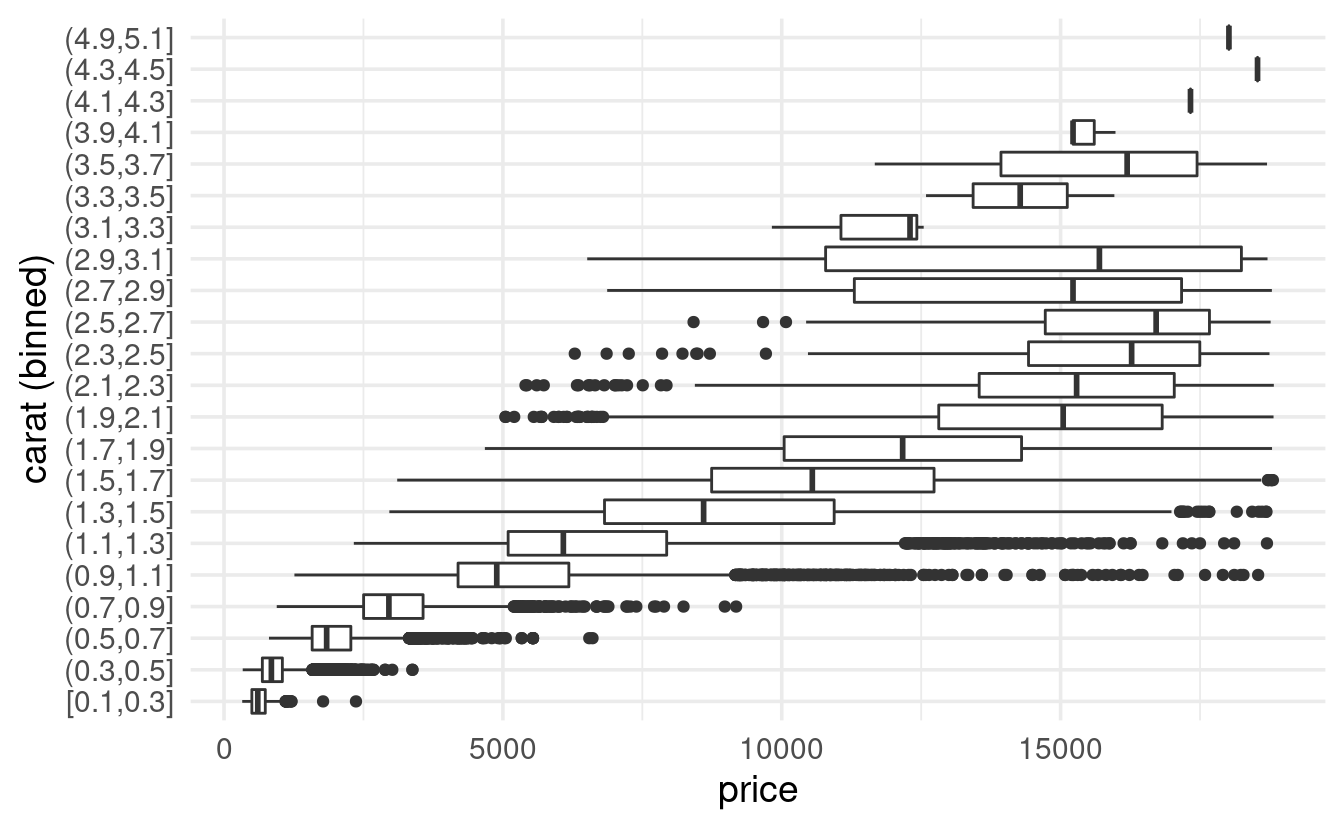
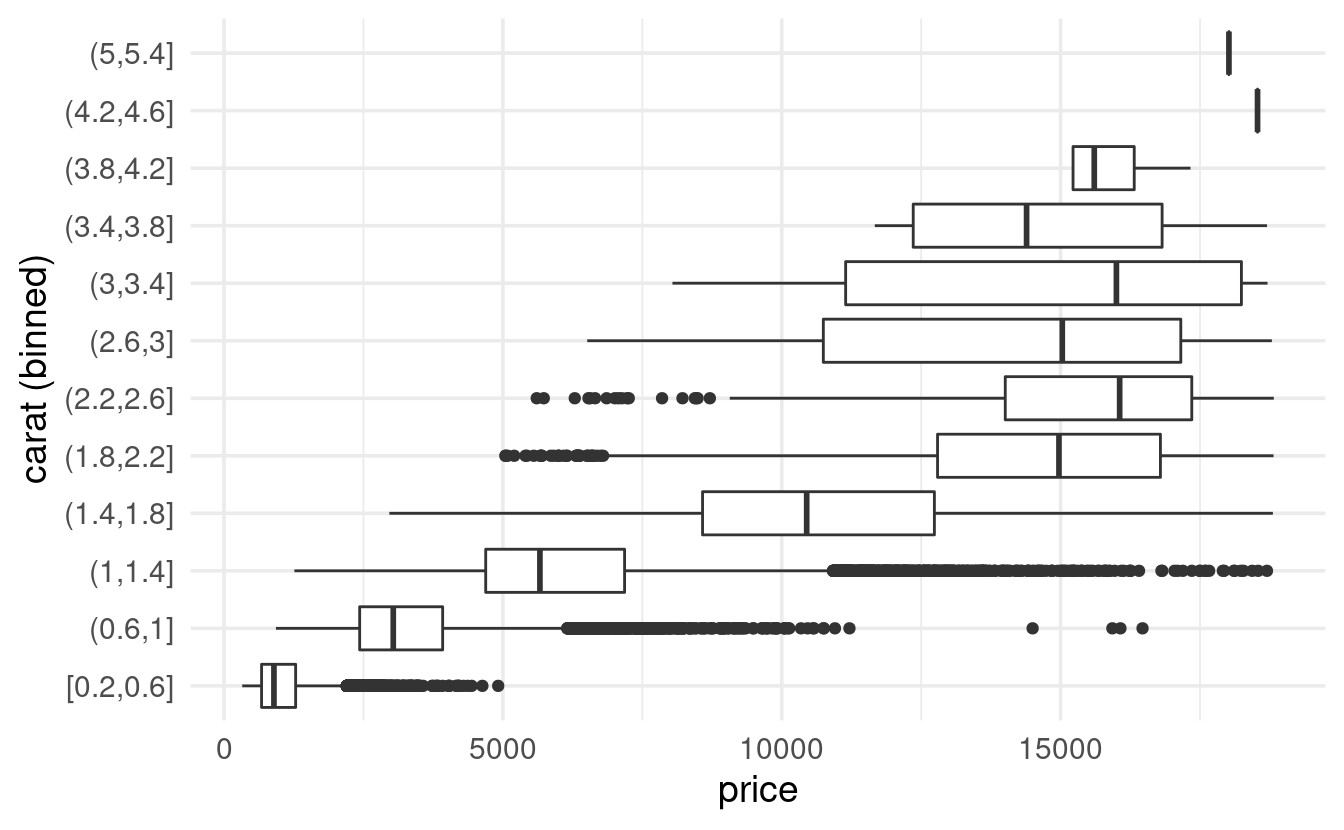
Pass 3 of CC S04E16 - now knitted

diff --git a/content/codeclub/S04E16/index.md b/content/codeclub/S04E16/index.md
@@ -8,7 +8,7 @@ tags: [codeclub, r4ds]
 date: 2022-12-01
 lastmod: 2022-12-01
 toc: true
-rmd_hash: 1bfef5e902d5507b
+rmd_hash: 4fbedcead3f846fc
 
 ---
 
@@ -18,14 +18,15 @@ rmd_hash: 1bfef5e902d5507b
 
 Like last time, we'll mostly use *tidyverse* tools to explore the `diamonds` dataset, which is also part of the *tidyverse*.
 
-We'll also have a quick look at the `flights` dataset, for which we'll need to load the *nycflights13* package:
+We'll also have one look at the `flights` dataset, for which we'll need to load the *nycflights13* package:
 
 <div class="highlight">
 
-<pre class='chroma'><code class='language-r' data-lang='r'><span><span class='c'>## You only need to install if you haven't previously done so</span></span>
+<pre class='chroma'><code class='language-r' data-lang='r'><span><span class='c'>## You only need to install packages if you haven't previously done so</span></span>
 <span><span class='c'># install.packages("nycflights13")</span></span>
 <span><span class='c'># install.packages("tidyverse")</span></span>
 <span></span>
+<span><span class='c'>## But you'll have to load packages for every R session:</span></span>
 <span><span class='kr'><a href='https://rdrr.io/r/base/library.html'>library</a></span><span class='o'>(</span><span class='nv'><a href='https://github.com/hadley/nycflights13'>nycflights13</a></span><span class='o'>)</span></span>
 <span><span class='kr'><a href='https://rdrr.io/r/base/library.html'>library</a></span><span class='o'>(</span><span class='nv'><a href='https://tidyverse.tidyverse.org'>tidyverse</a></span><span class='o'>)</span></span>
 <span><span class='c'>#&gt; ── <span style='font-weight: bold;'>Attaching packages</span> ─────────────────────────────────────── tidyverse 1.3.2 ──</span></span>
@@ -101,7 +102,7 @@ To get rid of outliers in your dataset, you have two main options. First, you co
 <div class="highlight">
 
 <pre class='chroma'><code class='language-r' data-lang='r'><span><span class='c'># Remove rows for which column y is smaller than 3 or larger than 20: </span></span>
-<span><span class='nv'>diamonds2</span> <span class='o'>&lt;-</span> <span class='nv'>diamonds</span> <span class='o'><a href='https://magrittr.tidyverse.org/reference/pipe.html'>%&gt;%</a></span> <span class='nf'><a href='https://dplyr.tidyverse.org/reference/filter.html'>filter</a></span><span class='o'>(</span><span class='nv'>y</span> <span class='o'>&lt;</span> <span class='m'>3</span> <span class='o'>|</span> <span class='nv'>y</span> <span class='o'>&gt;</span> <span class='m'>20</span><span class='o'>)</span></span></code></pre>
+<span><span class='nv'>diamonds_no_outliers</span> <span class='o'>&lt;-</span> <span class='nv'>diamonds</span> <span class='o'><a href='https://magrittr.tidyverse.org/reference/pipe.html'>%&gt;%</a></span> <span class='nf'><a href='https://dplyr.tidyverse.org/reference/filter.html'>filter</a></span><span class='o'>(</span><span class='nv'>y</span> <span class='o'>&lt;</span> <span class='m'>3</span> <span class='o'>|</span> <span class='nv'>y</span> <span class='o'>&gt;</span> <span class='m'>20</span><span class='o'>)</span></span></code></pre>
 
 </div>
 
@@ -109,7 +110,7 @@ But you may not want throw out entire rows, because the values for the *other va
 
 <div class="highlight">
 
-<pre class='chroma'><code class='language-r' data-lang='r'><span><span class='nv'>diamonds_no_outliers</span> <span class='o'>&lt;-</span> <span class='nv'>diamonds</span> <span class='o'><a href='https://magrittr.tidyverse.org/reference/pipe.html'>%&gt;%</a></span></span>
+<pre class='chroma'><code class='language-r' data-lang='r'><span><span class='nv'>diamonds_NA_outliers</span> <span class='o'>&lt;-</span> <span class='nv'>diamonds</span> <span class='o'><a href='https://magrittr.tidyverse.org/reference/pipe.html'>%&gt;%</a></span></span>
 <span>  <span class='nf'><a href='https://dplyr.tidyverse.org/reference/mutate.html'>mutate</a></span><span class='o'>(</span>y <span class='o'>=</span> <span class='nf'><a href='https://rdrr.io/r/base/ifelse.html'>ifelse</a></span><span class='o'>(</span>test <span class='o'>=</span> <span class='nv'>y</span> <span class='o'>&lt;</span> <span class='m'>3</span> <span class='o'>|</span> <span class='nv'>y</span> <span class='o'>&gt;</span> <span class='m'>20</span>, yes <span class='o'>=</span> <span class='kc'>NA</span>, no <span class='o'>=</span> <span class='nv'>y</span><span class='o'>)</span><span class='o'>)</span></span></code></pre>
 
 </div>
@@ -139,7 +140,7 @@ The following expression will return a logical vector that indicates, for each v
 
 </div>
 
-We can use that expression as the `test` in [`ifelse()`](https://rdrr.io/r/base/ifelse.html), and turn values smaller than 5 into NA, while leaving the other values unchanged:
+We can use that expression as the `test` in [`ifelse()`](https://rdrr.io/r/base/ifelse.html), and turn values smaller than 5 into `NA` (`yes = NA`), while leaving the other values unchanged (`no = x`):
 
 <div class="highlight">
 
@@ -154,7 +155,7 @@ We can use that expression as the `test` in [`ifelse()`](https://rdrr.io/r/base/
 
 ### Comparing observations with and without missing data
 
-It can be useful to compare distributions among rows with and without missing values. To do that, we can first create a new variable that indicates whether a value for another variable is missing or not. Then, we can map an aesthetic like `color` to this missing-or-not variable, to show the two groups separately.
+It can be useful to compare distributions among rows with and without missing values. To do that, we can first create a new column that indicates whether a value for a variable of interest is missing or not. Then, we can map an aesthetic like `color` to this missing-or-not column to show the two groups separately.
 
 Below, we'll compare flights with and without missing values for departure time (`dep_time`), i.e. cancelled and not-cancelled flights, using the geom `geom_freqpoly` that we also saw last time:
 
@@ -196,21 +197,21 @@ This section of the book covers the exploration of covariation among two variabl
 
 ### 7.5.1: A categorical and continuous variable
 
-In out last plot above, we already explored the relationship between a categorical variable (cancelled & not-cancelled flights) and a continuous one (departure time).
+In out last plot above, we already explored the relationship between a categorical variable (cancelled & not-cancelled flights) and a continuous one (departure time), and we did so with so with a frequency polygon (`geom_freqpoly`).
 
-Let's see another example, this time for the `diamonds` dataset: whether prices differ among diamond cuts:
+Let's see another example, this time for the `diamonds` dataset, to examine whether prices differ among diamond cuts:
 
 <div class="highlight">
 
 <pre class='chroma'><code class='language-r' data-lang='r'><span><span class='nf'><a href='https://ggplot2.tidyverse.org/reference/ggplot.html'>ggplot</a></span><span class='o'>(</span>data <span class='o'>=</span> <span class='nv'>diamonds</span>,</span>
-<span>       mapping <span class='o'>=</span> <span class='nf'><a href='https://ggplot2.tidyverse.org/reference/aes.html'>aes</a></span><span class='o'>(</span>x <span class='o'>=</span> <span class='nv'>price</span><span class='o'>)</span><span class='o'>)</span> <span class='o'>+</span> </span>
-<span>  <span class='nf'><a href='https://ggplot2.tidyverse.org/reference/geom_density.html'>geom_density</a></span><span class='o'>(</span>mapping <span class='o'>=</span> <span class='nf'><a href='https://ggplot2.tidyverse.org/reference/aes.html'>aes</a></span><span class='o'>(</span>colour <span class='o'>=</span> <span class='nv'>cut</span><span class='o'>)</span><span class='o'>)</span></span>
+<span>       mapping <span class='o'>=</span> <span class='nf'><a href='https://ggplot2.tidyverse.org/reference/aes.html'>aes</a></span><span class='o'>(</span>x <span class='o'>=</span> <span class='nv'>price</span>, color <span class='o'>=</span> <span class='nv'>cut</span><span class='o'>)</span><span class='o'>)</span> <span class='o'>+</span> </span>
+<span>  <span class='nf'><a href='https://ggplot2.tidyverse.org/reference/geom_density.html'>geom_density</a></span><span class='o'>(</span><span class='o'>)</span></span>
 </code></pre>
 <img src="figs/unnamed-chunk-12-1.png" width="700px" style="display: block; margin: auto;" />
 
 </div>
 
-Another classic way of showing the relationship between a categorical and a continuous variable is with a **boxplot**. [The book](https://r4ds.had.co.nz/exploratory-data-analysis.html#cat-cont) has a good explanation of what the components of a boxplot (box, median line, whiskers, outliers) represent. Let's make a boxplot of diamond `price` by `cut`:
+A **boxplot** is another classic way to show the relationship between a categorical and a continuous variable. [The book](https://r4ds.had.co.nz/exploratory-data-analysis.html#cat-cont) has a good explanation of what the components of a boxplot (box, median line, whiskers, outliers) represent. Let's make a boxplot of diamond `price` by `cut`:
 
 <div class="highlight">
 
@@ -250,8 +251,9 @@ A quick way to do that is with [`geom_count()`](https://ggplot2.tidyverse.org/re
 
 <div class="highlight">
 
-<pre class='chroma'><code class='language-r' data-lang='r'><span><span class='nf'><a href='https://ggplot2.tidyverse.org/reference/ggplot.html'>ggplot</a></span><span class='o'>(</span>data <span class='o'>=</span> <span class='nv'>diamonds</span><span class='o'>)</span> <span class='o'>+</span></span>
-<span>  <span class='nf'><a href='https://ggplot2.tidyverse.org/reference/geom_count.html'>geom_count</a></span><span class='o'>(</span>mapping <span class='o'>=</span> <span class='nf'><a href='https://ggplot2.tidyverse.org/reference/aes.html'>aes</a></span><span class='o'>(</span>x <span class='o'>=</span> <span class='nv'>color</span>, y <span class='o'>=</span> <span class='nv'>cut</span><span class='o'>)</span><span class='o'>)</span></span>
+<pre class='chroma'><code class='language-r' data-lang='r'><span><span class='nf'><a href='https://ggplot2.tidyverse.org/reference/ggplot.html'>ggplot</a></span><span class='o'>(</span>data <span class='o'>=</span> <span class='nv'>diamonds</span>,</span>
+<span>       mapping <span class='o'>=</span> <span class='nf'><a href='https://ggplot2.tidyverse.org/reference/aes.html'>aes</a></span><span class='o'>(</span>x <span class='o'>=</span> <span class='nv'>color</span>, y <span class='o'>=</span> <span class='nv'>cut</span><span class='o'>)</span><span class='o'>)</span> <span class='o'>+</span></span>
+<span>  <span class='nf'><a href='https://ggplot2.tidyverse.org/reference/geom_count.html'>geom_count</a></span><span class='o'>(</span><span class='o'>)</span></span>
 </code></pre>
 <img src="figs/unnamed-chunk-15-1.png" width="700px" style="display: block; margin: auto;" />
 
@@ -280,8 +282,9 @@ The books covers a few strategies that can be useful when dealing with large dat
 
 <div class="highlight">
 
-<pre class='chroma'><code class='language-r' data-lang='r'><span><span class='nf'><a href='https://ggplot2.tidyverse.org/reference/ggplot.html'>ggplot</a></span><span class='o'>(</span>data <span class='o'>=</span> <span class='nv'>diamonds</span><span class='o'>)</span> <span class='o'>+</span></span>
-<span>  <span class='nf'><a href='https://ggplot2.tidyverse.org/reference/geom_point.html'>geom_point</a></span><span class='o'>(</span>mapping <span class='o'>=</span> <span class='nf'><a href='https://ggplot2.tidyverse.org/reference/aes.html'>aes</a></span><span class='o'>(</span>x <span class='o'>=</span> <span class='nv'>carat</span>, y <span class='o'>=</span> <span class='nv'>price</span><span class='o'>)</span><span class='o'>)</span></span>
+<pre class='chroma'><code class='language-r' data-lang='r'><span><span class='nf'><a href='https://ggplot2.tidyverse.org/reference/ggplot.html'>ggplot</a></span><span class='o'>(</span>data <span class='o'>=</span> <span class='nv'>diamonds</span>,</span>
+<span>       mapping <span class='o'>=</span> <span class='nf'><a href='https://ggplot2.tidyverse.org/reference/aes.html'>aes</a></span><span class='o'>(</span>x <span class='o'>=</span> <span class='nv'>carat</span>, y <span class='o'>=</span> <span class='nv'>price</span><span class='o'>)</span><span class='o'>)</span> <span class='o'>+</span></span>
+<span>  <span class='nf'><a href='https://ggplot2.tidyverse.org/reference/geom_point.html'>geom_point</a></span><span class='o'>(</span><span class='o'>)</span></span>
 </code></pre>
 <img src="figs/unnamed-chunk-17-1.png" width="700px" style="display: block; margin: auto;" />
 
@@ -294,9 +297,9 @@ Making points transparent is one strategy to more clearly see patterns in the da
 <div class="highlight">
 
 <pre class='chroma'><code class='language-r' data-lang='r'><span><span class='c'># An alpha of 1 (the default) is opaque and an alpha of 1 is transparent </span></span>
-<span><span class='nf'><a href='https://ggplot2.tidyverse.org/reference/ggplot.html'>ggplot</a></span><span class='o'>(</span>data <span class='o'>=</span> <span class='nv'>diamonds</span><span class='o'>)</span> <span class='o'>+</span> </span>
-<span>  <span class='nf'><a href='https://ggplot2.tidyverse.org/reference/geom_point.html'>geom_point</a></span><span class='o'>(</span>mapping <span class='o'>=</span> <span class='nf'><a href='https://ggplot2.tidyverse.org/reference/aes.html'>aes</a></span><span class='o'>(</span>x <span class='o'>=</span> <span class='nv'>carat</span>, y <span class='o'>=</span> <span class='nv'>price</span><span class='o'>)</span>,</span>
-<span>             alpha <span class='o'>=</span> <span class='m'>0.01</span><span class='o'>)</span></span>
+<span><span class='nf'><a href='https://ggplot2.tidyverse.org/reference/ggplot.html'>ggplot</a></span><span class='o'>(</span>data <span class='o'>=</span> <span class='nv'>diamonds</span>,</span>
+<span>       mapping <span class='o'>=</span> <span class='nf'><a href='https://ggplot2.tidyverse.org/reference/aes.html'>aes</a></span><span class='o'>(</span>x <span class='o'>=</span> <span class='nv'>carat</span>, y <span class='o'>=</span> <span class='nv'>price</span><span class='o'>)</span><span class='o'>)</span> <span class='o'>+</span> </span>
+<span>  <span class='nf'><a href='https://ggplot2.tidyverse.org/reference/geom_point.html'>geom_point</a></span><span class='o'>(</span>alpha <span class='o'>=</span> <span class='m'>0.01</span><span class='o'>)</span></span>
 </code></pre>
 <img src="figs/unnamed-chunk-18-1.png" width="700px" style="display: block; margin: auto;" />
 
@@ -333,9 +336,9 @@ Use the function [`cut_number()`](https://ggplot2.tidyverse.org/reference/cut_in
 
 <br>
 
--   You can start by creating a binned column with [`mutate()`](https://dplyr.tidyverse.org/reference/mutate.html) and `cut_width(carat, 0.1)`, *or* you can create the bins "on the fly", by simply using `cut_width(carat, 0.1)` as `x` or `y` aesthetic.
+-   Run [`?cut_number`](https://ggplot2.tidyverse.org/reference/cut_interval.html) to see the documentation for this function.
 
--   Side note: An alternative way of making this kind of plot would be with [`cut_width()`](https://ggplot2.tidyverse.org/reference/cut_interval.html) instead of [`cut_number()`](https://ggplot2.tidyverse.org/reference/cut_interval.html): then, you fix the width of each bin rather than the number of data points in each bin. The disadvantage of that approach is that you may be misled by bins with very few data points, but a way to ameliorate this is by using the `varwidth = TRUE` argument of [`geom_boxplot()`](https://ggplot2.tidyverse.org/reference/geom_boxplot.html).
+-   You can start by creating a binned column with [`mutate()`](https://dplyr.tidyverse.org/reference/mutate.html) and `cut_number(carat, n = 10)`, *or* you can create the bins "on the fly", by simply using `cut_number(carat, n = 10)` as the `x` or `y` aesthetic.
 
 </details>
 
@@ -353,7 +356,7 @@ To be able to read the axis labels, I moved `carat` to the y axis (and I also ad
 <div class="highlight">
 
 <pre class='chroma'><code class='language-r' data-lang='r'><span><span class='nv'>diamonds</span> <span class='o'><a href='https://magrittr.tidyverse.org/reference/pipe.html'>%&gt;%</a></span></span>
-<span>  <span class='nf'><a href='https://ggplot2.tidyverse.org/reference/ggplot.html'>ggplot</a></span><span class='o'>(</span>mapping <span class='o'>=</span> <span class='nf'><a href='https://ggplot2.tidyverse.org/reference/aes.html'>aes</a></span><span class='o'>(</span>y <span class='o'>=</span> <span class='nf'><a href='https://ggplot2.tidyverse.org/reference/cut_interval.html'>cut_number</a></span><span class='o'>(</span><span class='nv'>carat</span>, <span class='m'>10</span><span class='o'>)</span>, x <span class='o'>=</span> <span class='nv'>price</span><span class='o'>)</span><span class='o'>)</span> <span class='o'>+</span> </span>
+<span>  <span class='nf'><a href='https://ggplot2.tidyverse.org/reference/ggplot.html'>ggplot</a></span><span class='o'>(</span>mapping <span class='o'>=</span> <span class='nf'><a href='https://ggplot2.tidyverse.org/reference/aes.html'>aes</a></span><span class='o'>(</span>y <span class='o'>=</span> <span class='nf'><a href='https://ggplot2.tidyverse.org/reference/cut_interval.html'>cut_number</a></span><span class='o'>(</span><span class='nv'>carat</span>, n <span class='o'>=</span> <span class='m'>10</span><span class='o'>)</span>, x <span class='o'>=</span> <span class='nv'>price</span><span class='o'>)</span><span class='o'>)</span> <span class='o'>+</span> </span>
 <span>  <span class='nf'><a href='https://ggplot2.tidyverse.org/reference/geom_boxplot.html'>geom_boxplot</a></span><span class='o'>(</span><span class='o'>)</span> <span class='o'>+</span></span>
 <span>  <span class='nf'><a href='https://ggplot2.tidyverse.org/reference/labs.html'>labs</a></span><span class='o'>(</span>y <span class='o'>=</span> <span class='s'>"carat (binned)"</span><span class='o'>)</span></span>
 </code></pre>
@@ -367,7 +370,7 @@ The book has a different way of doing this, using the `group` aesthetic. This is
 
 <pre class='chroma'><code class='language-r' data-lang='r'><span><span class='nv'>diamonds</span> <span class='o'><a href='https://magrittr.tidyverse.org/reference/pipe.html'>%&gt;%</a></span> </span>
 <span>  <span class='nf'><a href='https://ggplot2.tidyverse.org/reference/ggplot.html'>ggplot</a></span><span class='o'>(</span>mapping <span class='o'>=</span> <span class='nf'><a href='https://ggplot2.tidyverse.org/reference/aes.html'>aes</a></span><span class='o'>(</span>x <span class='o'>=</span> <span class='nv'>carat</span>, y <span class='o'>=</span> <span class='nv'>price</span><span class='o'>)</span><span class='o'>)</span> <span class='o'>+</span> </span>
-<span>  <span class='nf'><a href='https://ggplot2.tidyverse.org/reference/geom_boxplot.html'>geom_boxplot</a></span><span class='o'>(</span>mapping <span class='o'>=</span> <span class='nf'><a href='https://ggplot2.tidyverse.org/reference/aes.html'>aes</a></span><span class='o'>(</span>group <span class='o'>=</span> <span class='nf'><a href='https://ggplot2.tidyverse.org/reference/cut_interval.html'>cut_number</a></span><span class='o'>(</span><span class='nv'>carat</span>, <span class='m'>10</span><span class='o'>)</span><span class='o'>)</span><span class='o'>)</span></span>
+<span>  <span class='nf'><a href='https://ggplot2.tidyverse.org/reference/geom_boxplot.html'>geom_boxplot</a></span><span class='o'>(</span>mapping <span class='o'>=</span> <span class='nf'><a href='https://ggplot2.tidyverse.org/reference/aes.html'>aes</a></span><span class='o'>(</span>group <span class='o'>=</span> <span class='nf'><a href='https://ggplot2.tidyverse.org/reference/cut_interval.html'>cut_number</a></span><span class='o'>(</span><span class='nv'>carat</span>, n <span class='o'>=</span> <span class='m'>10</span><span class='o'>)</span><span class='o'>)</span><span class='o'>)</span></span>
 </code></pre>
 <img src="figs/unnamed-chunk-20-1.png" width="700px" style="display: block; margin: auto;" />
 
@@ -378,7 +381,7 @@ Alternatively, if you want to have control over the ranges that the bins cover (
 <div class="highlight">
 
 <pre class='chroma'><code class='language-r' data-lang='r'><span><span class='nv'>diamonds</span> <span class='o'><a href='https://magrittr.tidyverse.org/reference/pipe.html'>%&gt;%</a></span></span>
-<span>  <span class='nf'><a href='https://ggplot2.tidyverse.org/reference/ggplot.html'>ggplot</a></span><span class='o'>(</span>mapping <span class='o'>=</span> <span class='nf'><a href='https://ggplot2.tidyverse.org/reference/aes.html'>aes</a></span><span class='o'>(</span>y <span class='o'>=</span> <span class='nf'><a href='https://ggplot2.tidyverse.org/reference/cut_interval.html'>cut_width</a></span><span class='o'>(</span><span class='nv'>carat</span>, <span class='m'>0.2</span><span class='o'>)</span>, x <span class='o'>=</span> <span class='nv'>price</span><span class='o'>)</span><span class='o'>)</span> <span class='o'>+</span> </span>
+<span>  <span class='nf'><a href='https://ggplot2.tidyverse.org/reference/ggplot.html'>ggplot</a></span><span class='o'>(</span>mapping <span class='o'>=</span> <span class='nf'><a href='https://ggplot2.tidyverse.org/reference/aes.html'>aes</a></span><span class='o'>(</span>y <span class='o'>=</span> <span class='nf'><a href='https://ggplot2.tidyverse.org/reference/cut_interval.html'>cut_width</a></span><span class='o'>(</span><span class='nv'>carat</span>, width <span class='o'>=</span> <span class='m'>0.4</span><span class='o'>)</span>, x <span class='o'>=</span> <span class='nv'>price</span><span class='o'>)</span><span class='o'>)</span> <span class='o'>+</span> </span>
 <span>  <span class='nf'><a href='https://ggplot2.tidyverse.org/reference/geom_boxplot.html'>geom_boxplot</a></span><span class='o'>(</span><span class='o'>)</span> <span class='o'>+</span></span>
 <span>  <span class='nf'><a href='https://ggplot2.tidyverse.org/reference/labs.html'>labs</a></span><span class='o'>(</span>y <span class='o'>=</span> <span class='s'>"carat (binned)"</span><span class='o'>)</span></span>
 </code></pre>
@@ -391,7 +394,7 @@ In that case, consider using `varwidth = TRUE` to make the width of the boxes to
 <div class="highlight">
 
 <pre class='chroma'><code class='language-r' data-lang='r'><span><span class='nv'>diamonds</span> <span class='o'><a href='https://magrittr.tidyverse.org/reference/pipe.html'>%&gt;%</a></span></span>
-<span>  <span class='nf'><a href='https://ggplot2.tidyverse.org/reference/ggplot.html'>ggplot</a></span><span class='o'>(</span>mapping <span class='o'>=</span> <span class='nf'><a href='https://ggplot2.tidyverse.org/reference/aes.html'>aes</a></span><span class='o'>(</span>y <span class='o'>=</span> <span class='nf'><a href='https://ggplot2.tidyverse.org/reference/cut_interval.html'>cut_width</a></span><span class='o'>(</span><span class='nv'>carat</span>, <span class='m'>0.2</span><span class='o'>)</span>, x <span class='o'>=</span> <span class='nv'>price</span><span class='o'>)</span><span class='o'>)</span> <span class='o'>+</span> </span>
+<span>  <span class='nf'><a href='https://ggplot2.tidyverse.org/reference/ggplot.html'>ggplot</a></span><span class='o'>(</span>mapping <span class='o'>=</span> <span class='nf'><a href='https://ggplot2.tidyverse.org/reference/aes.html'>aes</a></span><span class='o'>(</span>y <span class='o'>=</span> <span class='nf'><a href='https://ggplot2.tidyverse.org/reference/cut_interval.html'>cut_width</a></span><span class='o'>(</span><span class='nv'>carat</span>, width <span class='o'>=</span> <span class='m'>0.4</span><span class='o'>)</span>, x <span class='o'>=</span> <span class='nv'>price</span><span class='o'>)</span><span class='o'>)</span> <span class='o'>+</span> </span>
 <span>  <span class='nf'><a href='https://ggplot2.tidyverse.org/reference/geom_boxplot.html'>geom_boxplot</a></span><span class='o'>(</span>varwidth <span class='o'>=</span> <span class='kc'>TRUE</span><span class='o'>)</span> <span class='o'>+</span></span>
 <span>  <span class='nf'><a href='https://ggplot2.tidyverse.org/reference/labs.html'>labs</a></span><span class='o'>(</span>y <span class='o'>=</span> <span class='s'>"carat (binned)"</span><span class='o'>)</span></span>
 </code></pre>
@@ -481,8 +484,8 @@ In that case, consider using `varwidth = TRUE` to make the width of the boxes to
 <pre class='chroma'><code class='language-r' data-lang='r'><span><span class='nv'>diamonds</span> <span class='o'><a href='https://magrittr.tidyverse.org/reference/pipe.html'>%&gt;%</a></span></span>
 <span>  <span class='nf'><a href='https://dplyr.tidyverse.org/reference/group_by.html'>group_by</a></span><span class='o'>(</span><span class='nv'>color</span>, <span class='nv'>cut</span><span class='o'>)</span> <span class='o'><a href='https://magrittr.tidyverse.org/reference/pipe.html'>%&gt;%</a></span></span>
 <span>  <span class='nf'><a href='https://dplyr.tidyverse.org/reference/summarise.html'>summarize</a></span><span class='o'>(</span>price <span class='o'>=</span> <span class='nf'><a href='https://rdrr.io/r/base/mean.html'>mean</a></span><span class='o'>(</span><span class='nv'>price</span><span class='o'>)</span><span class='o'>)</span> <span class='o'><a href='https://magrittr.tidyverse.org/reference/pipe.html'>%&gt;%</a></span></span>
-<span>  <span class='nf'><a href='https://ggplot2.tidyverse.org/reference/ggplot.html'>ggplot</a></span><span class='o'>(</span>mapping <span class='o'>=</span> <span class='nf'><a href='https://ggplot2.tidyverse.org/reference/aes.html'>aes</a></span><span class='o'>(</span>x <span class='o'>=</span> <span class='nv'>color</span>, y <span class='o'>=</span> <span class='nv'>cut</span><span class='o'>)</span><span class='o'>)</span> <span class='o'>+</span></span>
-<span>  <span class='nf'><a href='https://ggplot2.tidyverse.org/reference/geom_tile.html'>geom_tile</a></span><span class='o'>(</span>mapping <span class='o'>=</span> <span class='nf'><a href='https://ggplot2.tidyverse.org/reference/aes.html'>aes</a></span><span class='o'>(</span>fill <span class='o'>=</span> <span class='nv'>price</span><span class='o'>)</span><span class='o'>)</span> <span class='o'>+</span></span>
+<span>  <span class='nf'><a href='https://ggplot2.tidyverse.org/reference/ggplot.html'>ggplot</a></span><span class='o'>(</span>mapping <span class='o'>=</span> <span class='nf'><a href='https://ggplot2.tidyverse.org/reference/aes.html'>aes</a></span><span class='o'>(</span>x <span class='o'>=</span> <span class='nv'>color</span>, y <span class='o'>=</span> <span class='nv'>cut</span>, fill <span class='o'>=</span> <span class='nv'>price</span><span class='o'>)</span><span class='o'>)</span> <span class='o'>+</span></span>
+<span>  <span class='nf'><a href='https://ggplot2.tidyverse.org/reference/geom_tile.html'>geom_tile</a></span><span class='o'>(</span><span class='o'>)</span> <span class='o'>+</span></span>
 <span>  <span class='nf'><a href='https://ggplot2.tidyverse.org/reference/scale_viridis.html'>scale_fill_viridis_c</a></span><span class='o'>(</span><span class='o'>)</span></span>
 <span><span class='c'>#&gt; `summarise()` has grouped output by 'color'. You can override using the</span></span>
 <span><span class='c'>#&gt; `.groups` argument.</span></span></code></pre>
@@ -570,8 +573,8 @@ It looks like going from color `D` to `J` is associated with an overall *increas
 <span>  <span class='nf'><a href='https://dplyr.tidyverse.org/reference/group_by.html'>group_by</a></span><span class='o'>(</span><span class='nv'>color</span>, <span class='nv'>cut</span><span class='o'>)</span> <span class='o'><a href='https://magrittr.tidyverse.org/reference/pipe.html'>%&gt;%</a></span></span>
 <span>  <span class='nf'><a href='https://dplyr.tidyverse.org/reference/mutate.html'>mutate</a></span><span class='o'>(</span>price_per_carat <span class='o'>=</span> <span class='nv'>price</span> <span class='o'>/</span> <span class='nv'>carat</span><span class='o'>)</span> <span class='o'><a href='https://magrittr.tidyverse.org/reference/pipe.html'>%&gt;%</a></span> </span>
 <span>  <span class='nf'><a href='https://dplyr.tidyverse.org/reference/summarise.html'>summarize</a></span><span class='o'>(</span>price_per_carat <span class='o'>=</span> <span class='nf'><a href='https://rdrr.io/r/base/mean.html'>mean</a></span><span class='o'>(</span><span class='nv'>price_per_carat</span><span class='o'>)</span><span class='o'>)</span> <span class='o'><a href='https://magrittr.tidyverse.org/reference/pipe.html'>%&gt;%</a></span></span>
-<span>  <span class='nf'><a href='https://ggplot2.tidyverse.org/reference/ggplot.html'>ggplot</a></span><span class='o'>(</span>mapping <span class='o'>=</span> <span class='nf'><a href='https://ggplot2.tidyverse.org/reference/aes.html'>aes</a></span><span class='o'>(</span>x <span class='o'>=</span> <span class='nv'>color</span>, y <span class='o'>=</span> <span class='nv'>cut</span><span class='o'>)</span><span class='o'>)</span> <span class='o'>+</span></span>
-<span>  <span class='nf'><a href='https://ggplot2.tidyverse.org/reference/geom_tile.html'>geom_tile</a></span><span class='o'>(</span>mapping <span class='o'>=</span> <span class='nf'><a href='https://ggplot2.tidyverse.org/reference/aes.html'>aes</a></span><span class='o'>(</span>fill <span class='o'>=</span> <span class='nv'>price_per_carat</span><span class='o'>)</span><span class='o'>)</span> <span class='o'>+</span></span>
+<span>  <span class='nf'><a href='https://ggplot2.tidyverse.org/reference/ggplot.html'>ggplot</a></span><span class='o'>(</span>mapping <span class='o'>=</span> <span class='nf'><a href='https://ggplot2.tidyverse.org/reference/aes.html'>aes</a></span><span class='o'>(</span>x <span class='o'>=</span> <span class='nv'>color</span>, y <span class='o'>=</span> <span class='nv'>cut</span>, fill <span class='o'>=</span> <span class='nv'>price_per_carat</span><span class='o'>)</span><span class='o'>)</span> <span class='o'>+</span></span>
+<span>  <span class='nf'><a href='https://ggplot2.tidyverse.org/reference/geom_tile.html'>geom_tile</a></span><span class='o'>(</span><span class='o'>)</span> <span class='o'>+</span></span>
 <span>  <span class='nf'><a href='https://ggplot2.tidyverse.org/reference/scale_viridis.html'>scale_fill_viridis_c</a></span><span class='o'>(</span><span class='o'>)</span></span>
 <span><span class='c'>#&gt; `summarise()` has grouped output by 'color'. You can override using the</span></span>
 <span><span class='c'>#&gt; `.groups` argument.</span></span></code></pre>
@@ -595,7 +598,7 @@ It looks like going from color `D` to `J` is associated with an overall *increas
 
 ### Exercise 4 (bonus)
 
-To better understand the relationship between `color`, `carat`, and `price` (see the previous exercise), modify the earlier scatterplot of `carat` and `price` simply by mapping diamond `color` to the color aesthetic.
+To get another perspecective on the relationship between `color`, `carat`, and `price` (see the previous exercise), modify the earlier scatterplot of `carat` and `price` simply by mapping diamond `color` to the color aesthetic.
 
 <details>
 <summary>
@@ -643,7 +646,7 @@ If we convert `cut` to a regular character data type, the custom order disappear
 
 </div>
 
-We could set a different custom order using the `levels` argument of the `factor` function (the same code would work if `cut` would not yet have been a factor):
+We could set a different custom order using the `levels` argument of the `factor` function (the same code would work if `cut` would not yet have been a factor at all):
 
 <div class="highlight">
 
